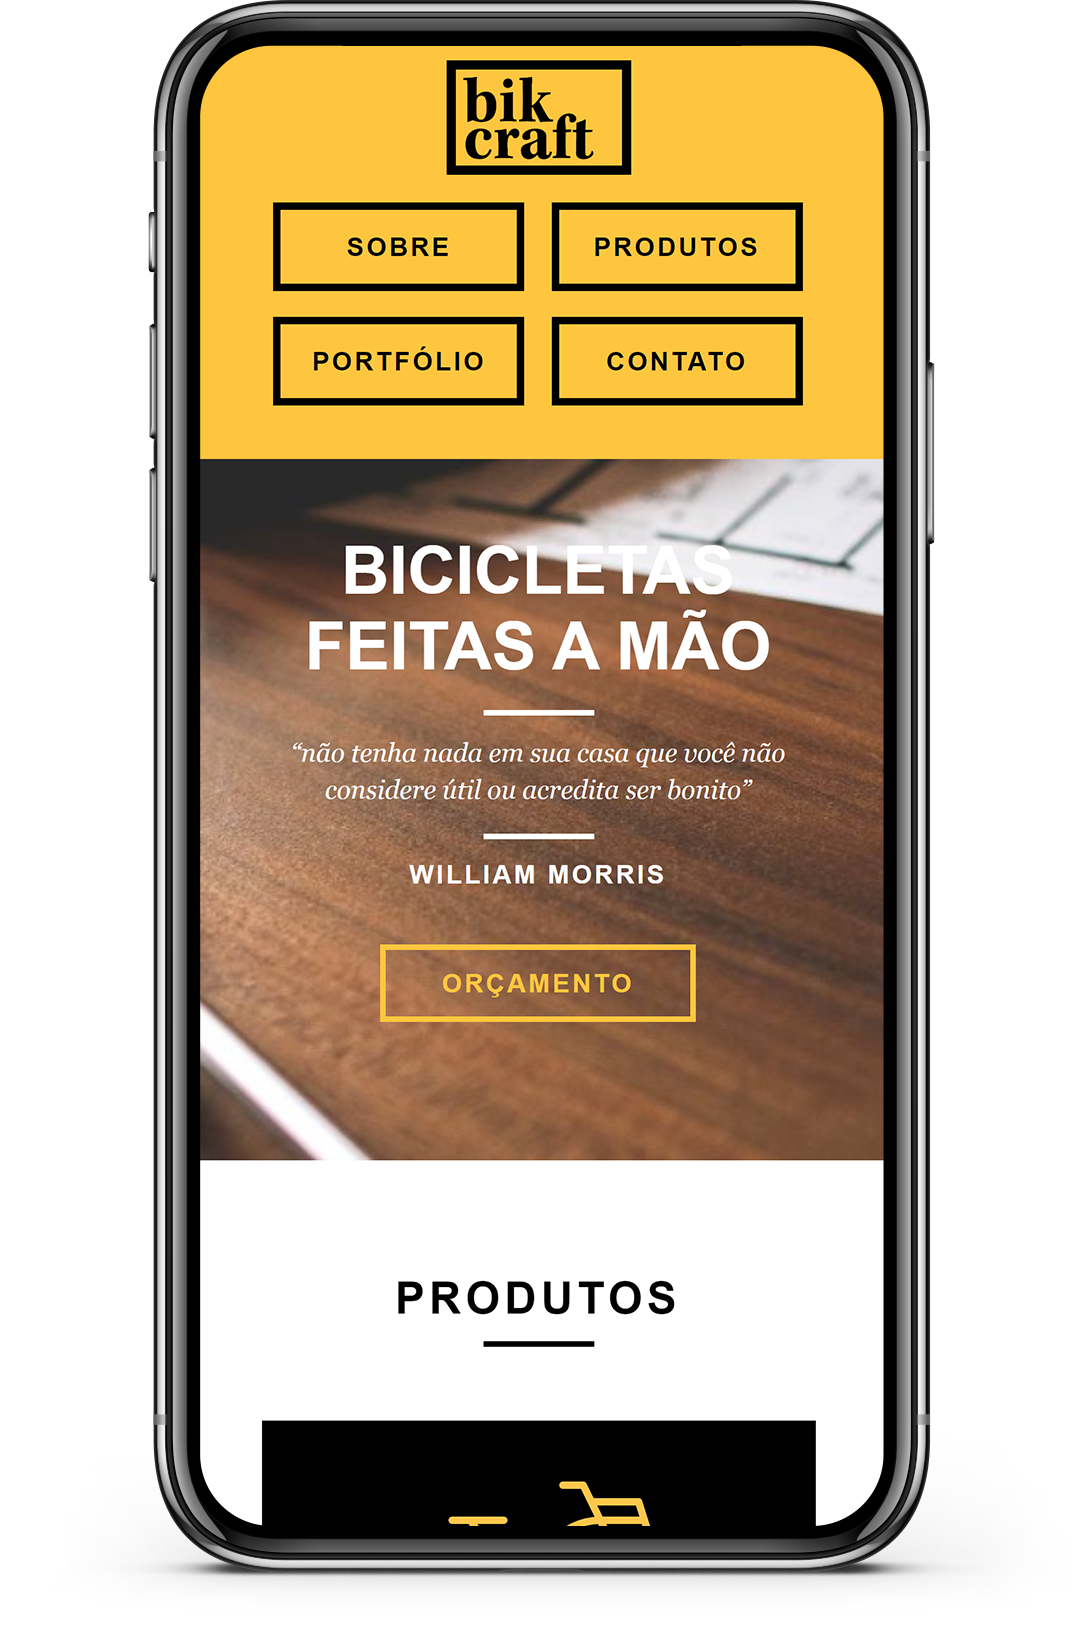
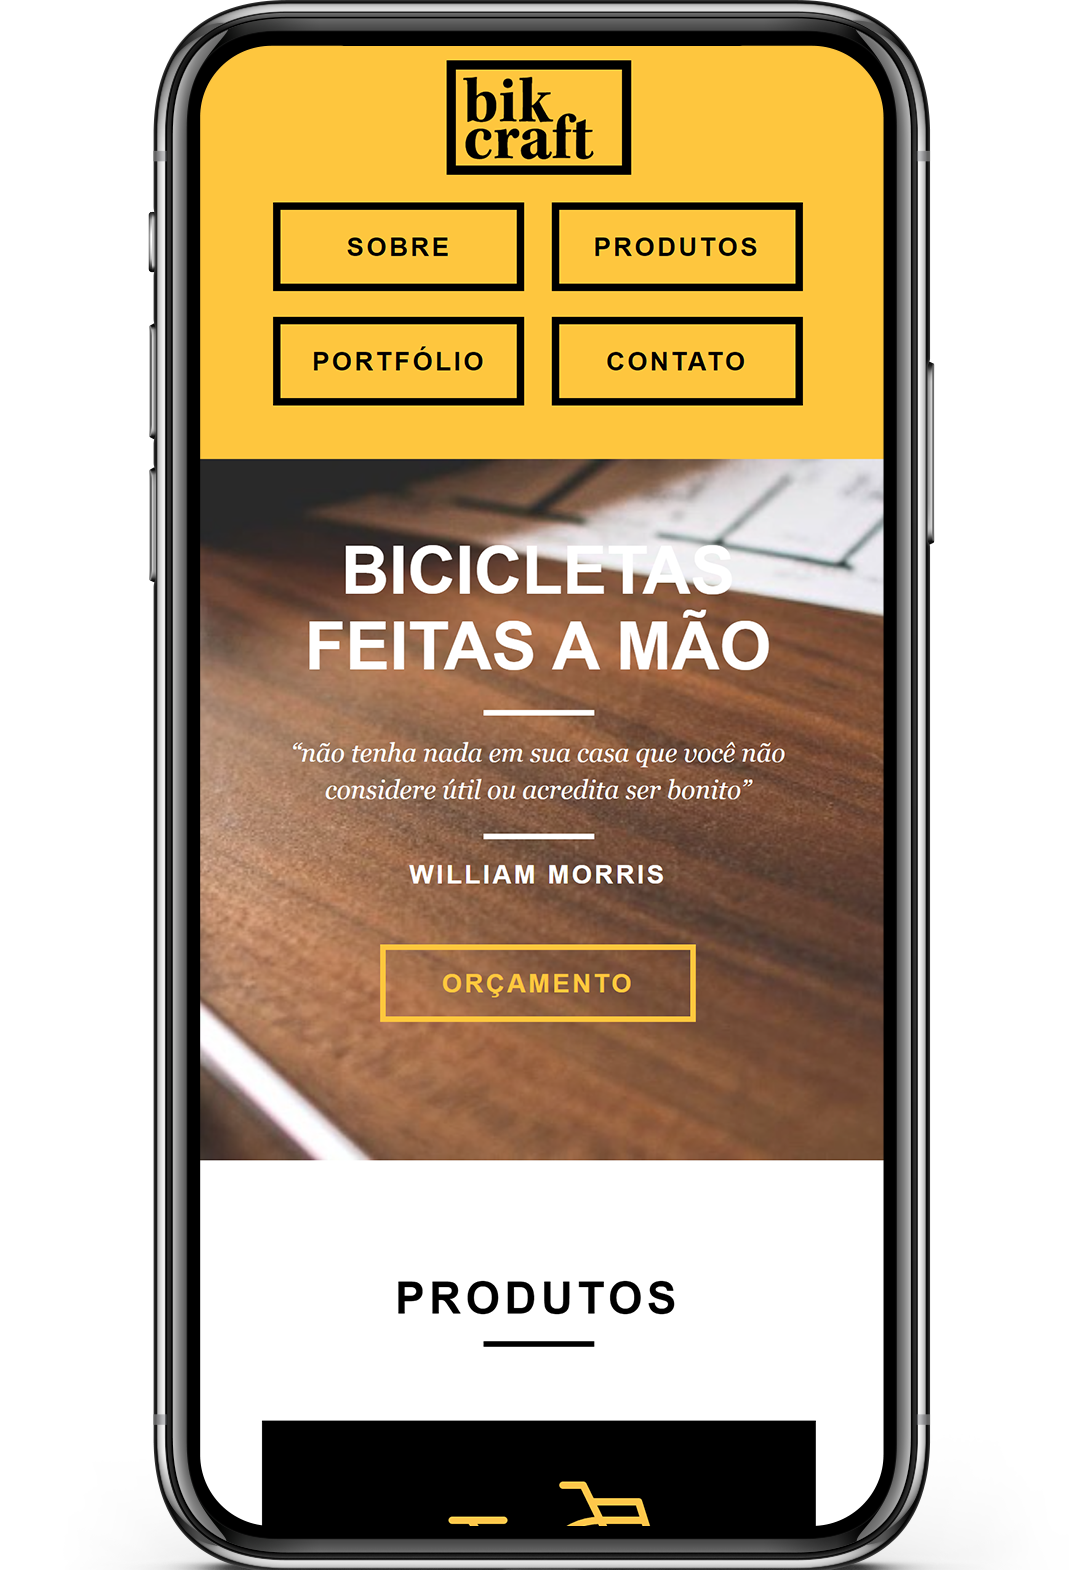
Update

diff --git a/README.md b/README.md
@@ -17,5 +17,5 @@
 ### Web Screenshot
 <div align="center">
    <img src="./img/desktop.png" width="500px">
-   <img src="./img/mobile.png" width="300px">
+   <img src="./img/mobile.png" width="125px">
 </div>
